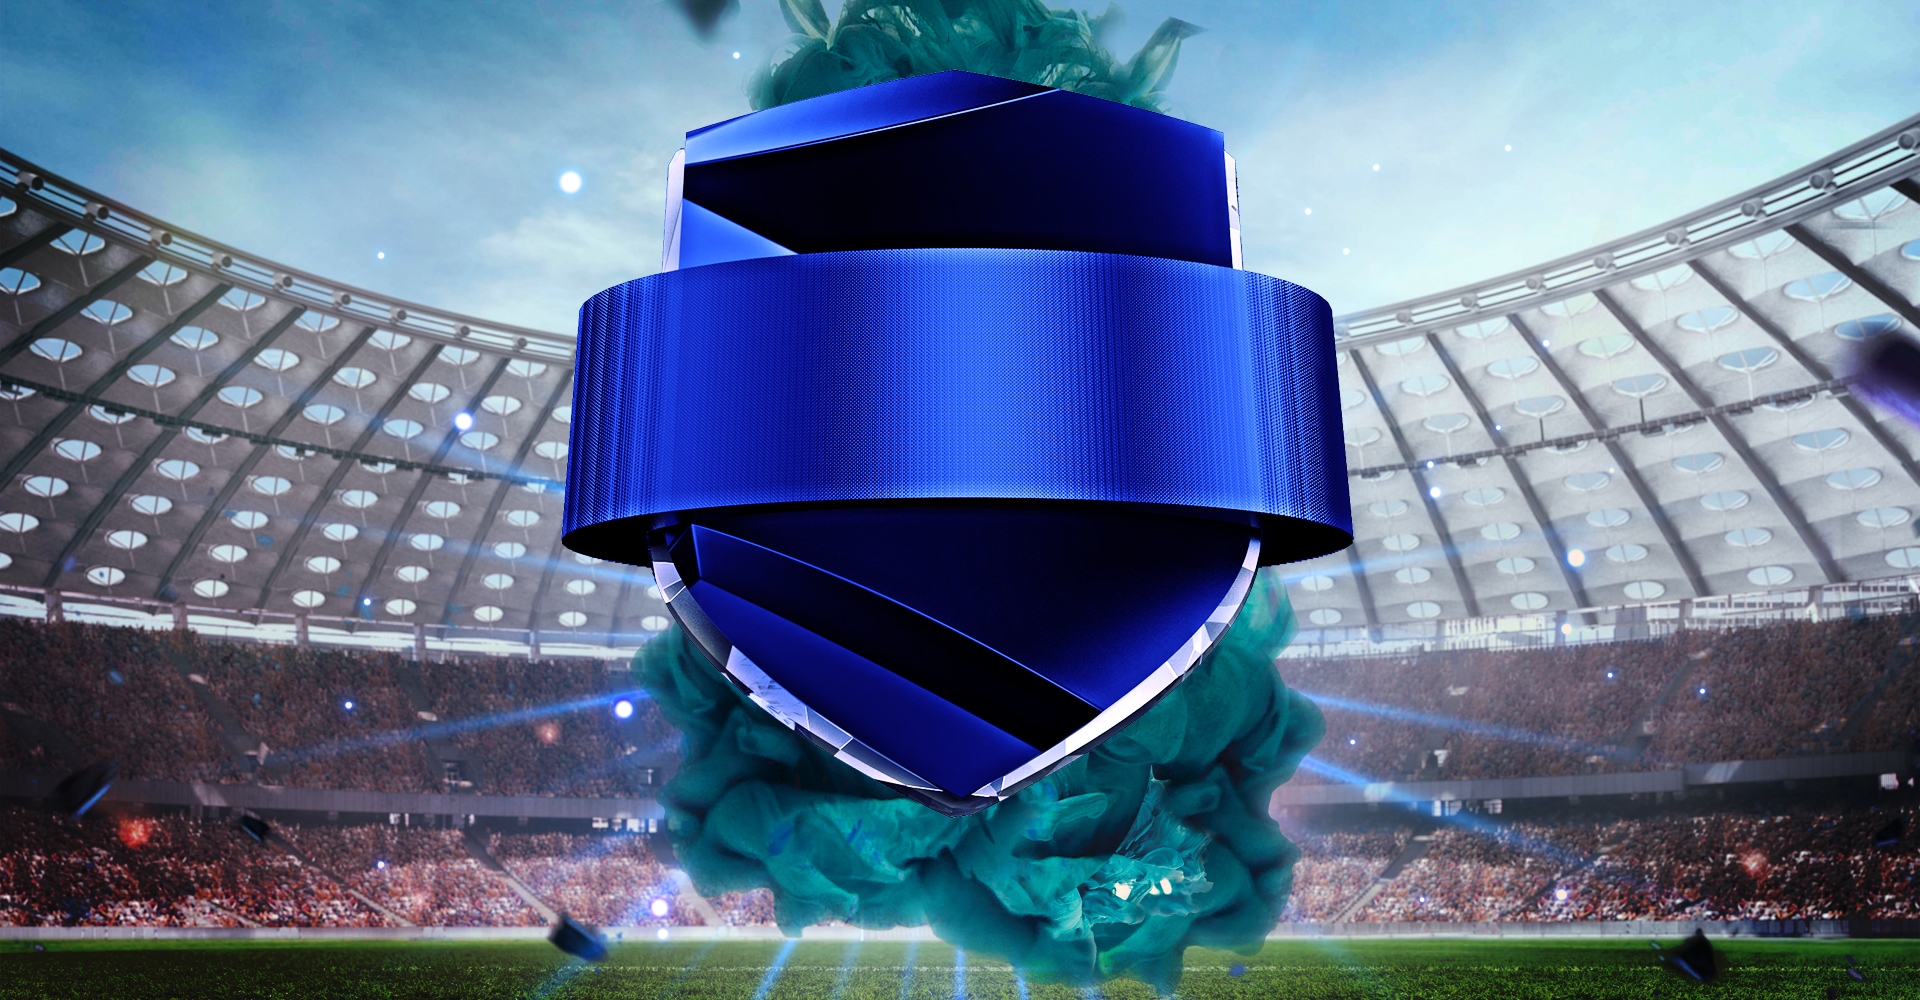
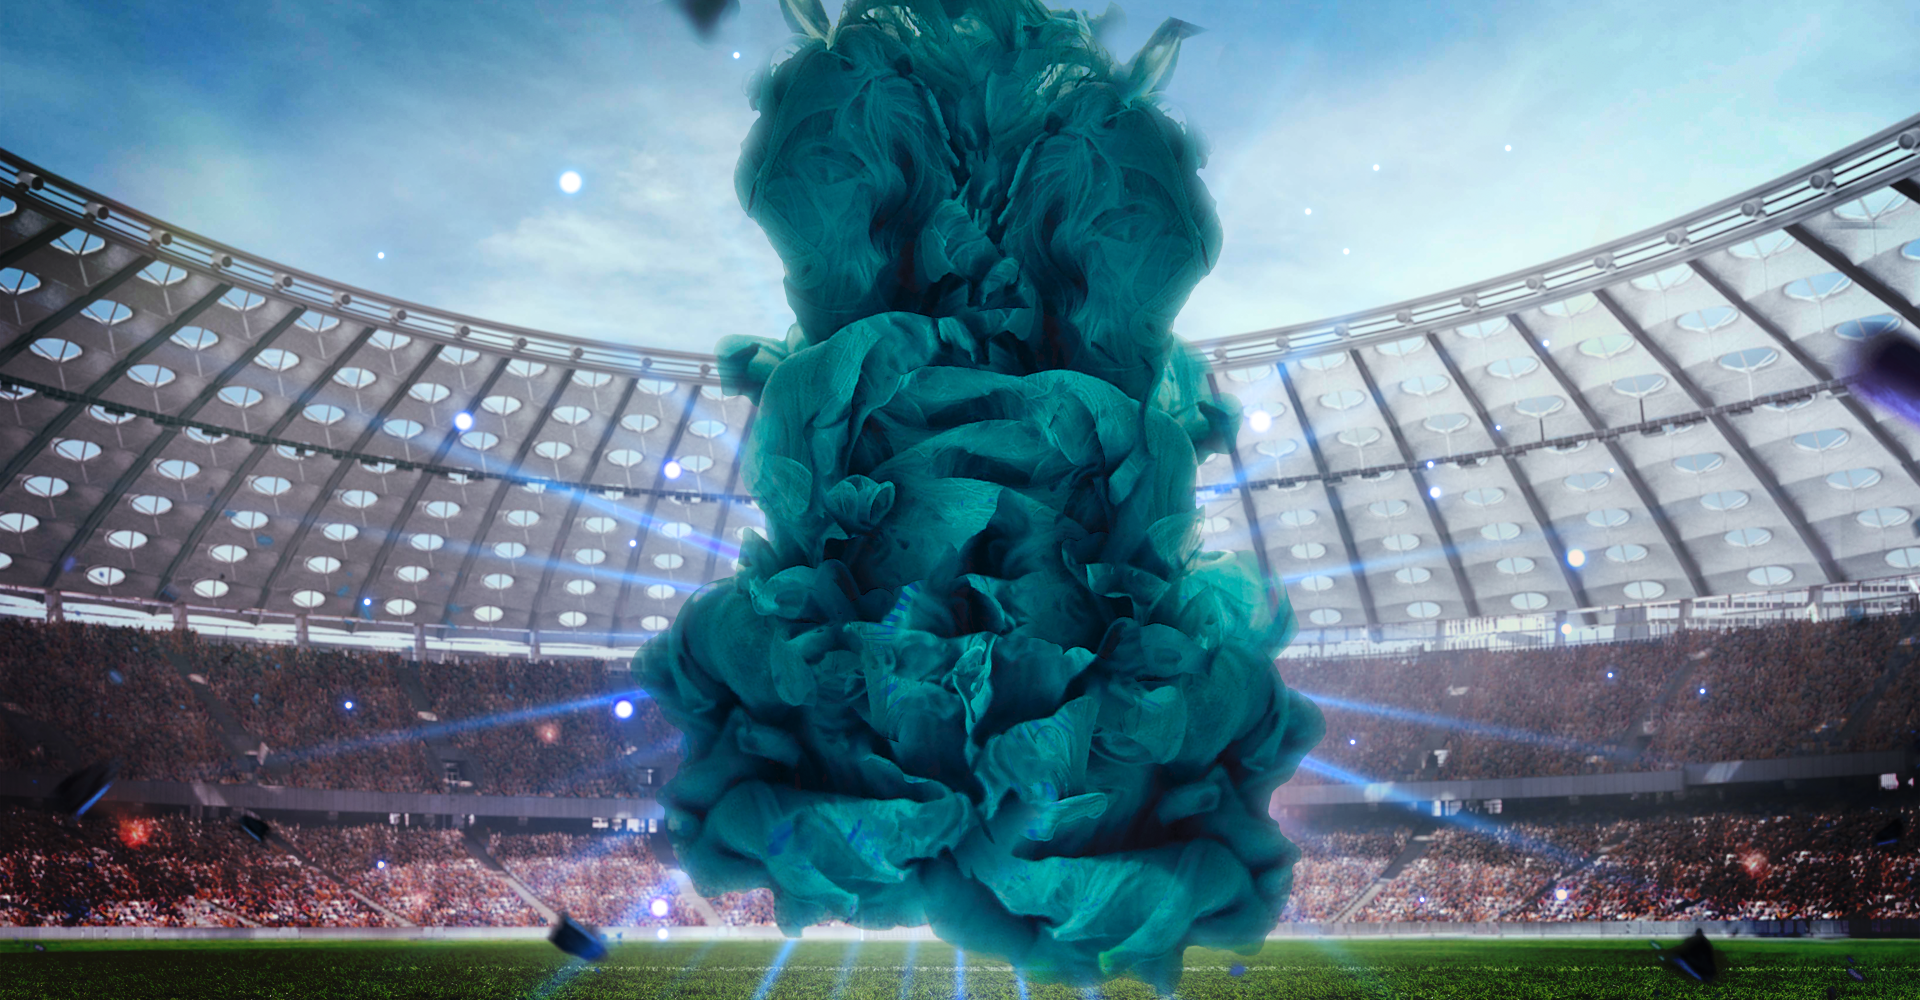
111-10-04

Changed region(s): [[0.2812, 0.062, 0.7188, 0.837], [0.5312, 0.775, 0.6562, 0.961]]

diff --git a/scss/style.scss b/scss/style.scss
@@ -55,7 +55,7 @@ a:link {
 html {
     width: 100%;
     height: 100%;
-    background-color: #9b0002;
+    background-color: #3b80ad;
     
     body {
         min-width: 1100px;
@@ -97,8 +97,8 @@ html {
                         height: auto;
                         display: flex;
                         position: absolute;
-                        top: 354px;
-                        left: 333px;
+                        top: 350px;
+                        left: 343px;
                         z-index: 100;
 
                         .input {
@@ -135,10 +135,10 @@ html {
                                     background: #03032e;
                                     border: 1px solid #ffffff;
                                     border-radius: 30px;
-                                    color: #000000;
+                                    color: #ffffff;
                                     font-size: 20px;
                                     letter-spacing: -1px;
-                                    padding: 3px 45px 0;
+                                    padding: 3px 47px 0;
                                     box-sizing: border-box;
 
                                     &::placeholder {
@@ -168,11 +168,12 @@ html {
                             justify-content: center;
                             position: absolute;
                             top: 0;
-                            right: -163px;
+                            right: -157px;
                             z-index: 4;
 
                           
                             &:hover,&:active,&.active {
+                                background: linear-gradient(to bottom, #7b652d 0%, #b0964b 100%);
                                 color: #ffffff;
                             }
                         }
@@ -183,20 +184,19 @@ html {
                             border-radius: 50%;
                             position: absolute;
                             top: -3px;
-                            right: -166px;
+                            right: -160px;
                             z-index: -2px;
                         }
                     }
     
                     .unionLogo {
                         width: 243px;
-                        height: 43px;
+                        height: 47px;
                         background: url(../img/union.png) no-repeat center;
                         background-size: contain;
                         position: absolute;
-                        top: 466px;
-                        left: 347px;
-                        z-index: 100;
+                        top: 461px;
+                        left: 352px;
                     }
 
                     .mainObject {
@@ -238,13 +238,25 @@ html {
                     }
 
                     .soccer {
-                        width: 1286px;
-                        height: 594px;
+                        width: 744px;
+                        height: 623px;
                         background: url(../img/soccer.png) no-repeat;
                         background-size: contain;
                         position: absolute;
-                        bottom: 50px;
-                        left: 530px;
+                        bottom: -64px;
+                        left: 167px;
+                    }
+
+                    .light {
+                        width: 557px;
+                        height: 224px;
+                        background: url(../img/light.png) no-repeat;
+                        background-size: contain;
+                        position: absolute;
+                        top: 10px;
+                        left: 391px;
+                        opacity: 0.8;
+                        filter: brightness(1.1);
                     }
                 }
 
@@ -257,11 +269,9 @@ html {
                 height: 100%;
                 background: url(../img/BG.png) no-repeat top center;
                 position: absolute;
-                top: 62px;
+                top: 0;
                 z-index: -999;
             }
         }
     }
 }
-
-

diff --git a/css/style.css b/css/style.css
@@ -66,7 +66,7 @@ a:link {
 html {
   width: 100%;
   height: 100%;
-  background-color: #9b0002;
+  background-color: #3b80ad;
 }
 html body {
   min-width: 1100px;
@@ -114,8 +114,8 @@ html body main .center .top .inputBox {
   display: -ms-flexbox;
   display: flex;
   position: absolute;
-  top: 354px;
-  left: 333px;
+  top: 350px;
+  left: 343px;
   z-index: 100;
 }
 html body main .center .top .inputBox .input {
@@ -153,10 +153,10 @@ html body main .center .top .inputBox .input label input {
   background: #03032e;
   border: 1px solid #ffffff;
   border-radius: 30px;
-  color: #000000;
+  color: #ffffff;
   font-size: 20px;
   letter-spacing: -1px;
-  padding: 3px 45px 0;
+  padding: 3px 47px 0;
   -webkit-box-sizing: border-box;
           box-sizing: border-box;
 }
@@ -205,10 +205,12 @@ html body main .center .top .inputBox button {
           justify-content: center;
   position: absolute;
   top: 0;
-  right: -163px;
+  right: -157px;
   z-index: 4;
 }
 html body main .center .top .inputBox button:hover, html body main .center .top .inputBox button:active, html body main .center .top .inputBox button.active {
+  background: -webkit-gradient(linear, left top, left bottom, from(#7b652d), to(#b0964b));
+  background: linear-gradient(to bottom, #7b652d 0%, #b0964b 100%);
   color: #ffffff;
 }
 html body main .center .top .inputBox .btnLine {
@@ -219,18 +221,17 @@ html body main .center .top .inputBox .btnLine {
   border-radius: 50%;
   position: absolute;
   top: -3px;
-  right: -166px;
+  right: -160px;
   z-index: -2px;
 }
 html body main .center .top .unionLogo {
   width: 243px;
-  height: 43px;
+  height: 47px;
   background: url(../img/union.png) no-repeat center;
   background-size: contain;
   position: absolute;
-  top: 466px;
-  left: 347px;
-  z-index: 100;
+  top: 461px;
+  left: 352px;
 }
 html body main .center .top .mainObject {
   width: 1611px;
@@ -268,13 +269,25 @@ html body main .center .bottom .text {
   left: -112px;
 }
 html body main .center .bottom .soccer {
-  width: 1286px;
-  height: 594px;
+  width: 744px;
+  height: 623px;
   background: url(../img/soccer.png) no-repeat;
   background-size: contain;
   position: absolute;
-  bottom: 50px;
-  left: 530px;
+  bottom: -64px;
+  left: 167px;
+}
+html body main .center .bottom .light {
+  width: 557px;
+  height: 224px;
+  background: url(../img/light.png) no-repeat;
+  background-size: contain;
+  position: absolute;
+  top: 10px;
+  left: 391px;
+  opacity: 0.8;
+  -webkit-filter: brightness(1.1);
+          filter: brightness(1.1);
 }
 html body main .bg {
   width: 100%;
@@ -282,6 +295,6 @@ html body main .bg {
   height: 100%;
   background: url(../img/BG.png) no-repeat top center;
   position: absolute;
-  top: 62px;
+  top: 0;
   z-index: -999;
 }
